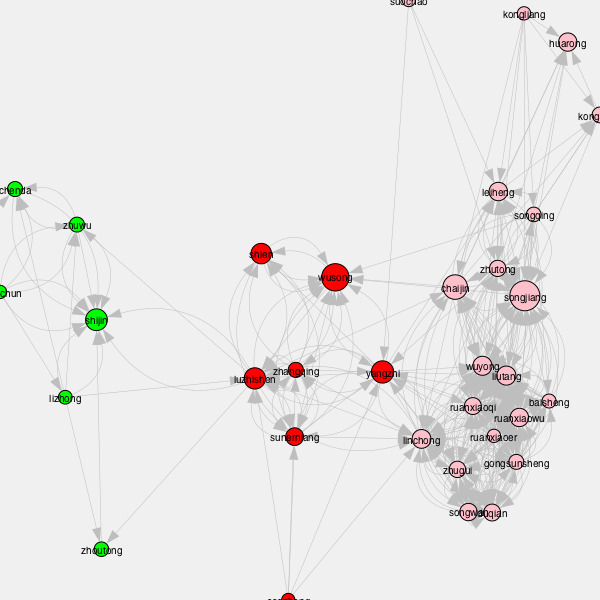
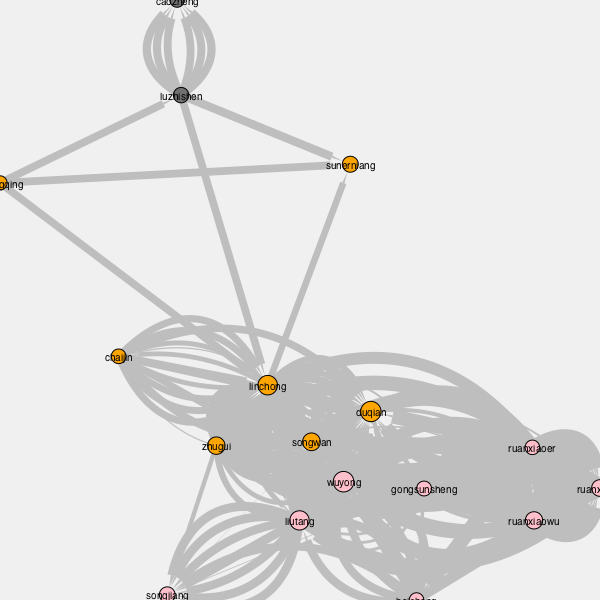
7.17

diff --git a/SNA.py b/SNA.py
@@ -70,7 +70,6 @@ class DrawGraph:
             sub_vertex = range(self.MG.user_num)
 
         g = self.graph.subgraph(sub_vertex, implementation="auto")
-
         node_list = self.node_list
         layout = g.layout_fruchterman_reingold()
         v_size_list = []  # 记录节点大小的列表
@@ -80,7 +79,7 @@ class DrawGraph:
             v_size_list.append(500 * node_list[node_index].value + 10)
             # v_size_list.append(20)
             v_color_list.append(color_dict[node_list[node_index].group % 11])
-            v_label_list.append(node_list[node_index].label.encode('UTF-8'))
+            v_label_list.append(node_list[node_index].label.encode('utf-8'))
             # v_label_list.append(node_list[node_index].group)
 
         p = igraph.Plot()
@@ -88,15 +87,17 @@ class DrawGraph:
         p.background = "#f0f0f0"  # 将背景改为白色，默认是灰色网格
         p.add(g,
               # bbox=(100,100,1600, 1600),  # 设置图占窗体的大小，默认是(0,0,600,600)
-              dpi = 300,
+              # dpi=300,
               layout=layout,  # 图的布局
               vertex_size=v_size_list,  # 点的尺寸
-              edge_width=0.5,
-              edge_color="grey",  # 边的宽度和颜色，建议灰色，比较好看
+              edge_width=0.3,
+              edge_arrow_size=0.8,  # 箭头长度
+              edge_arrow_width=0.3,  # 箭头宽度
+              edge_color="grey",  # 边的颜色
               vertex_label_size=10,  # 点标签的大小
               vertex_label=v_label_list,
-              vertex_color=v_color_list
-              )  # 为每个点着色
+              vertex_color=v_color_list,  # 为每个点着色
+              )
 
         p.save(file_name)  # 将图保存到特定路径，igraph只支持png和pdf
         # p.show()

diff --git a/character_relation.py b/character_relation.py
@@ -6,22 +6,23 @@ from MM import CutWord
 
 if __name__ == '__main__':
     names = get_name_list()
-    en_names = get_name_list(True)
-    print '\n'.join(names)
+    en_names = get_name_list(en=True)
+    # print '\n'.join(names)
     name_index = dict(zip(names, range(names.__len__())))
     shz = FictionTool('data/水浒传.txt')
-    chapters, contents = shz.get_content_list(0, 30)
+    chapters, contents = shz.get_content_list(10, 20)
     mm = CutWord()
     links = []
     for c in contents:
-        appear_name = list(set(mm.mm_cut(c)))
-        for i in range(len(appear_name)):
-            for j in range(i+1, len(appear_name)):
-                links.append([name_index[appear_name[i]], name_index[appear_name[j]], 1])
+        for para in c.split('\n'):
+            appear_name = list(set(mm.mm_cut(para)))
+            for i in range(len(appear_name)):
+                for j in range(i+1, len(appear_name)):
+                    links.append([name_index[appear_name[i]], name_index[appear_name[j]], 1])
 
     MG = MakeGraph(links, dict(enumerate(en_names)))
 
-    DG = DrawGraph(MG).draw_graph('data/SNA.png',2)
+    DG = DrawGraph(MG).draw_graph('data/SNA.png', 1)
     # for node in MG.node_list:
     #     print node.label,  node.group
 

diff --git a/draft.py b/draft.py
@@ -11,4 +11,6 @@ import re
 # for j in comment:
 #     f1.write(j.decode('unicode-escape').encode('utf-8') + '\n')
 
-print 124319%13
+import numpy as np
+
+print np.arange(0,1,0.1)
